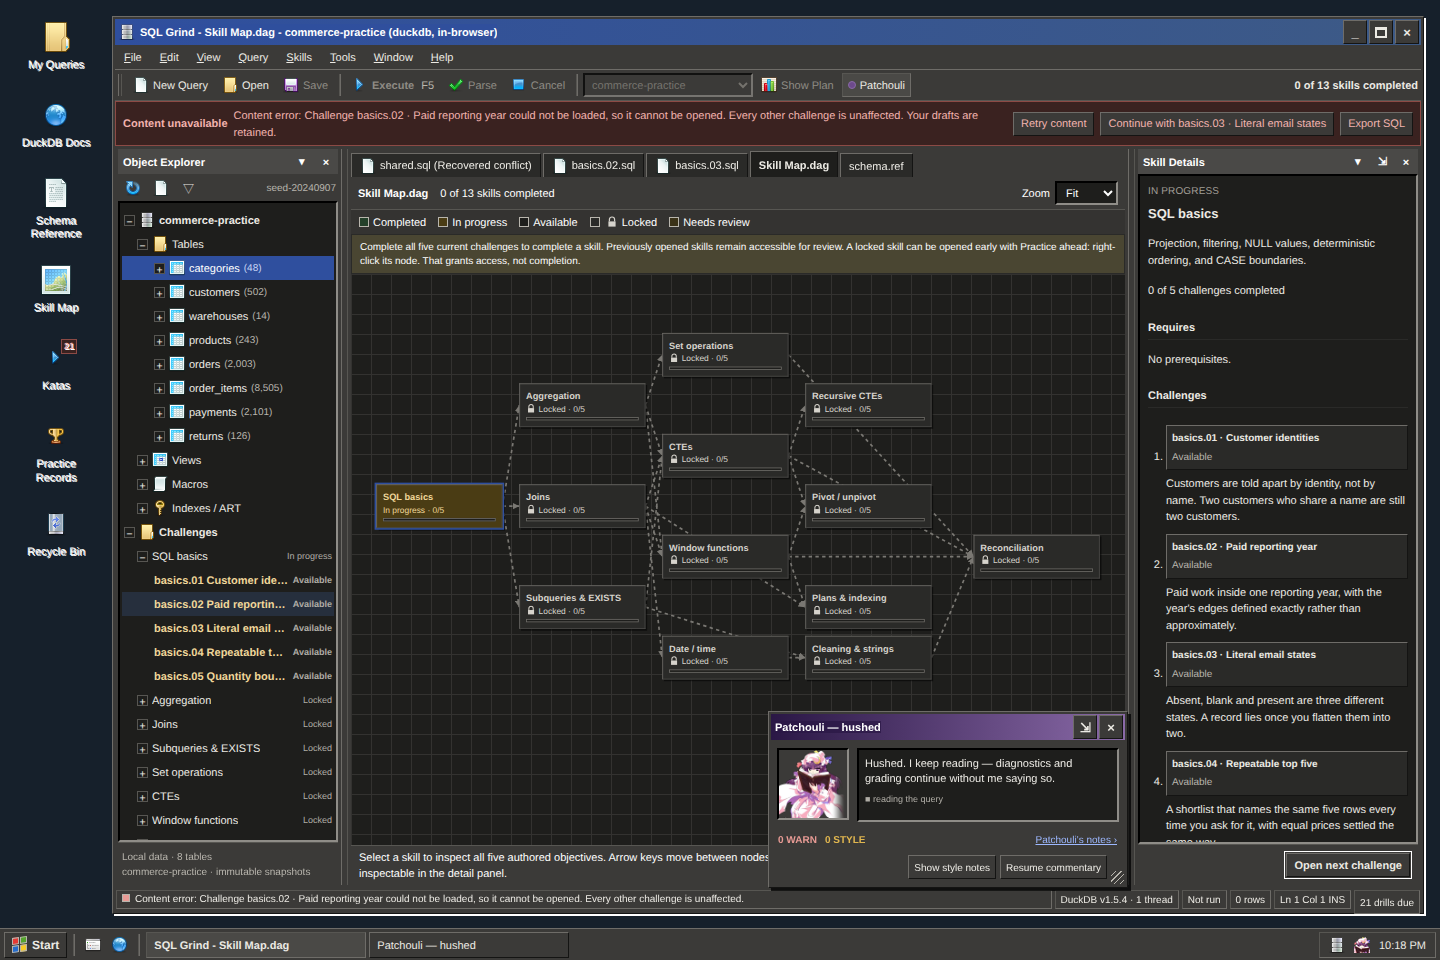
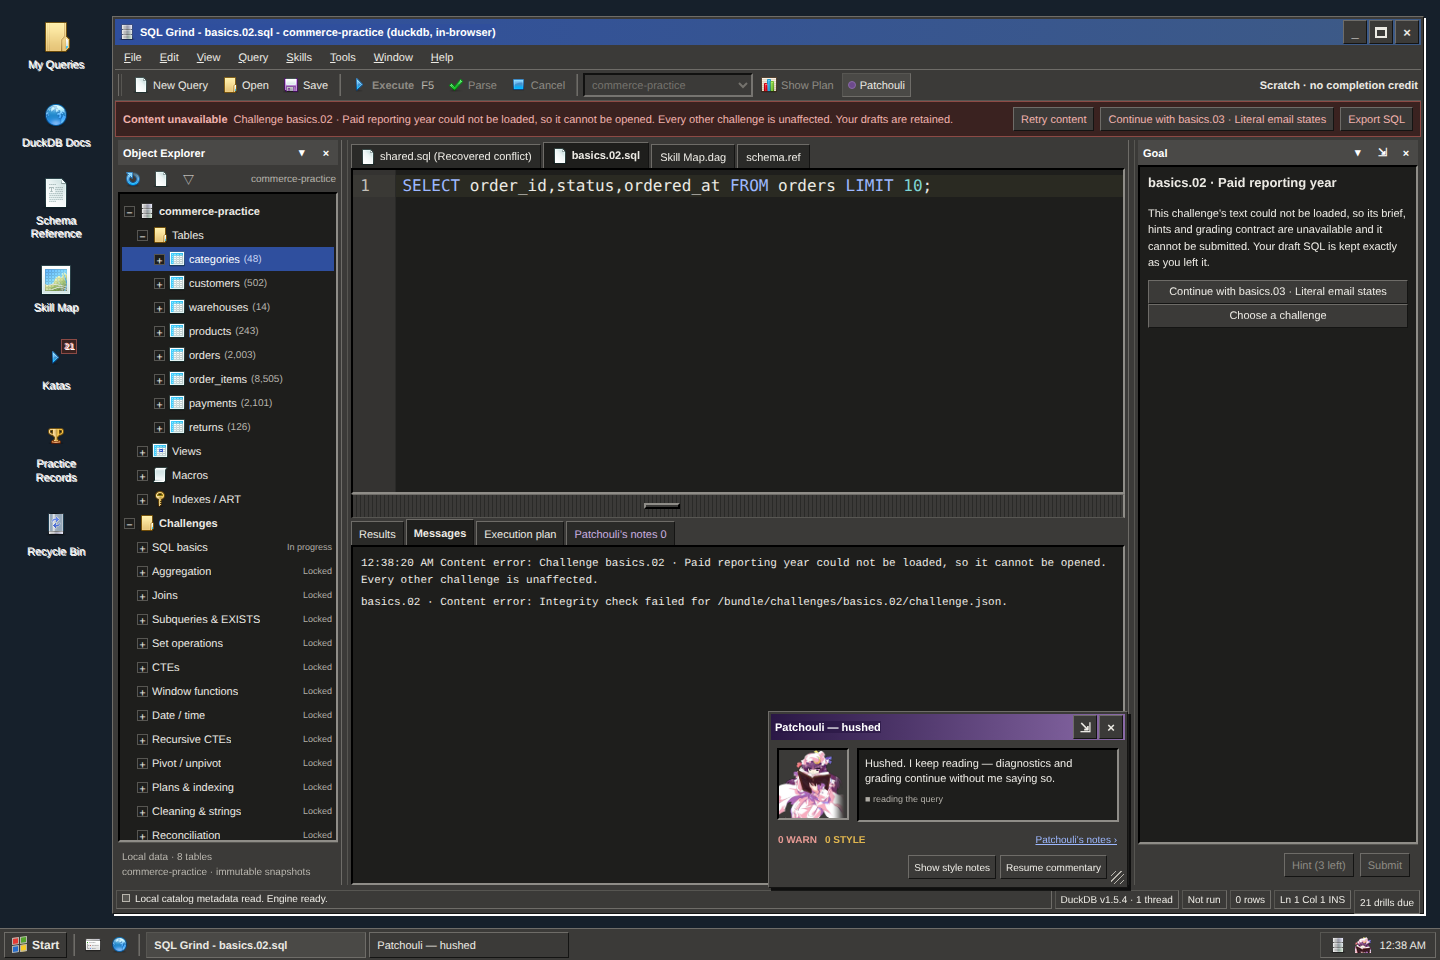
Keep the routing token out of speech, and the engine reachable offline
Follow-up to 418811b, three defects it introduced or left half fixed.

The banner stopped printing "Content error:" but challengeUnavailable still
handed the prefixed string to announce(), which writes the status bar —
role=status aria-live=polite — and the Messages log. A screen reader therefore
still read the discriminator aloud. The sentence is now built once and the token
attached only to the returned value the banner routes on. The loader's own
words stay on a plain `id · detail` log line for whoever is debugging the
bundle; that line may carry the prefix, announcements may not, and the
assertion distinguishes them by the timestamp announcements carry.

Two rejected test shapes on the way there, recorded because both looked green:
sampling .status-message asserts whichever message landed last ("Engine
ready." overwrites the failure), and a MutationObserver on it misses values
replaced inside one Svelte batch, which never paint. The Messages log keeps
every announcement verbatim and is the same string the live region receives.

sw.js: a pointer written before the cache split carries no content digest, and
readStoredState discarded the whole record. If the refresh that would supply
one failed — activate swallows that failure, and the next start may be offline
— state() threw, stateOrNull returned null, and cacheFirst/networkFirst cached
nothing. An upgraded-but-offline profile lost the 47 MB engine sitting in a
[…]

diff --git a/public/sw.js b/public/sw.js
@@ -167,11 +167,7 @@ async function readStoredState() {
     if (!stored) return null;
     const record = await stored.json();
     if (typeof record?.version !== "string") return null;
-    // A pointer written before the bundle cache was split carries no content
-    // digest. Treating that as unknown sends the next start-up to the manifest,
-    // which is what moves an already-poisoned profile onto a correctly named
-    // bundle cache without asking the user to clear storage.
-    return typeof record.content === "string" ? record : null;
+    return record;
   } catch {
     return null;
   }
@@ -216,14 +212,28 @@ async function refreshState() {
 /**
  * The stored pointer is consulted first so an offline start-up can name its
  * caches without the network.
+ *
+ * A pointer written before the bundle cache was split carries no content
+ * digest, so the network is consulted to learn one — that is what moves an
+ * already-poisoned profile onto a correctly named bundle cache without asking
+ * anyone to clear storage. If that fetch fails the version half is still
+ * usable, and discarding it would strand a profile with 47 MB of engine in a
+ * cache it had just decided not to name. LEGACY records exactly that state:
+ * engine by version, bundle read from whichever cache already holds it.
  */
+const LEGACY = "legacy";
 function state() {
   if (!statePromise)
     statePromise = (async () => {
       const stored = await readStoredState();
-      return stored
-        ? { version: stored.version, content: stored.content }
-        : await refreshState();
+      if (stored && typeof stored.content === "string")
+        return { version: stored.version, content: stored.content };
+      try {
+        return await refreshState();
+      } catch (error) {
+        if (stored) return { version: stored.version, content: LEGACY };
+        throw error;
+      }
     })().catch((error) => {
       statePromise = null; // never memoise a failure
       throw error;
@@ -244,6 +254,9 @@ async function purgeForeignCaches() {
   // Without a version we cannot name the replacement, so we keep what we have
   // rather than wiping an engine we may not be able to download again.
   if (!current) return [];
+  // Under LEGACY the bundle's cache name is unknown, so every bundle cache is
+  // kept: deleting the one that happens to hold this profile's content would
+  // turn a working offline profile into a broken one.
   const keep = new Set([
     META,
     assetCacheName(current.version),
@@ -251,10 +264,15 @@ async function purgeForeignCaches() {
     bundleCacheName(current.content),
   ]);
   const stale = (await caches.keys()).filter(
-    (name) => name.startsWith(PREFIX) && !keep.has(name),
+    (name) =>
+      name.startsWith(PREFIX) &&
+      !keep.has(name) &&
+      !(current.content === LEGACY && name.startsWith(`${PREFIX}bundle-`)),
   );
   await Promise.all(stale.map((name) => caches.delete(name)));
-  await pruneLegacyBundleEntries(current.version);
+  // Never while LEGACY: those entries are the only copy this profile can read.
+  if (current.content !== LEGACY)
+    await pruneLegacyBundleEntries(current.version);
   return stale;
 }
 
@@ -325,19 +343,40 @@ async function store(cache, href, response) {
 // them so a page download and a warm download never race for the same 36 MB.
 const inflight = new Set();
 
-/** The durable cache a cache-first request belongs in. */
+/**
+ * The durable cache a cache-first request belongs in, or null when the state
+ * cannot name one.
+ *
+ * Under LEGACY a bundle URL has no nameable cache: the content may sit in the
+ * pre-split engine cache or in a digest-named one this worker cannot compute
+ * offline. Those reads fall back to a global match, which searches every cache,
+ * and are deliberately not written back — storing under a guessed name is how
+ * a superseded copy becomes permanent.
+ */
 async function cacheFor(url) {
   const current = await stateOrNull();
   if (!current) return null;
-  return isBundleContent(url.pathname.slice(BASE.length))
-    ? await caches.open(bundleCacheName(current.content))
-    : await caches.open(assetCacheName(current.version));
+  if (!isBundleContent(url.pathname.slice(BASE.length)))
+    return await caches.open(assetCacheName(current.version));
+  if (current.content === LEGACY) return null;
+  return await caches.open(bundleCacheName(current.content));
+}
+
+async function legacyBundleHit(url) {
+  const current = await stateOrNull();
+  if (current?.content !== LEGACY) return null;
+  if (!isBundleContent(url.pathname.slice(BASE.length))) return null;
+  try {
+    return (await caches.match(url.href)) ?? null;
+  } catch {
+    return null;
+  }
 }
 
 async function cacheFirst(event, url) {
   const href = url.href;
   const cache = await cacheFor(url);
-  const hit = cache && (await cache.match(href));
+  const hit = cache ? await cache.match(href) : await legacyBundleHit(url);
   if (hit) return hit;
   const response = await fetch(event.request);
   if (cache && response.status === 200) {
@@ -518,7 +557,9 @@ async function runWarm(resources) {
   const current = await stateOrNull();
   const manifest =
     lastManifest ?? (await fetchManifest().catch(() => null)) ?? null;
-  if (current) {
+  // LEGACY means the bundle cache cannot be named, which only happens with no
+  // network; warming would create a junk cache and fetch nothing.
+  if (current && current.content !== LEGACY) {
     const assets = await caches.open(assetCacheName(current.version));
     const bundle = await caches.open(bundleCacheName(current.content));
     const shell = await caches.open(shellCacheName(current.version));

diff --git a/src/App.svelte b/src/App.svelte
@@ -1150,10 +1150,15 @@
   function challengeUnavailable(id: string, cause: unknown) {
     const detail = cause instanceof Error ? cause.message : String(cause);
     const summary = summaries[id];
-    const message = `Content error: Challenge ${summary ? `${summary.displayNumber} · ${summary.title}` : id} could not be loaded, so it cannot be opened. Every other challenge is unaffected.`;
+    // Built once as a sentence, returned with the routing token attached. The
+    // token tells the banner this is content rather than the engine; it is not
+    // language. Announcing the prefixed string put "Content error:" into the
+    // status bar, which is role=status aria-live=polite, so a screen reader
+    // read the discriminator aloud even after the banner stopped printing it.
+    const message = `Challenge ${summary ? `${summary.displayNumber} · ${summary.title}` : id} could not be loaded, so it cannot be opened. Every other challenge is unaffected.`;
     announce(message, "error");
     messages = [...messages.slice(-99), `${id} · ${detail}`];
-    return message;
+    return `Content error: ${message}`;
   }
   function isDirty(doc: QueryDocument) {
     return committedRevisions[doc.id] !== doc.revision;
